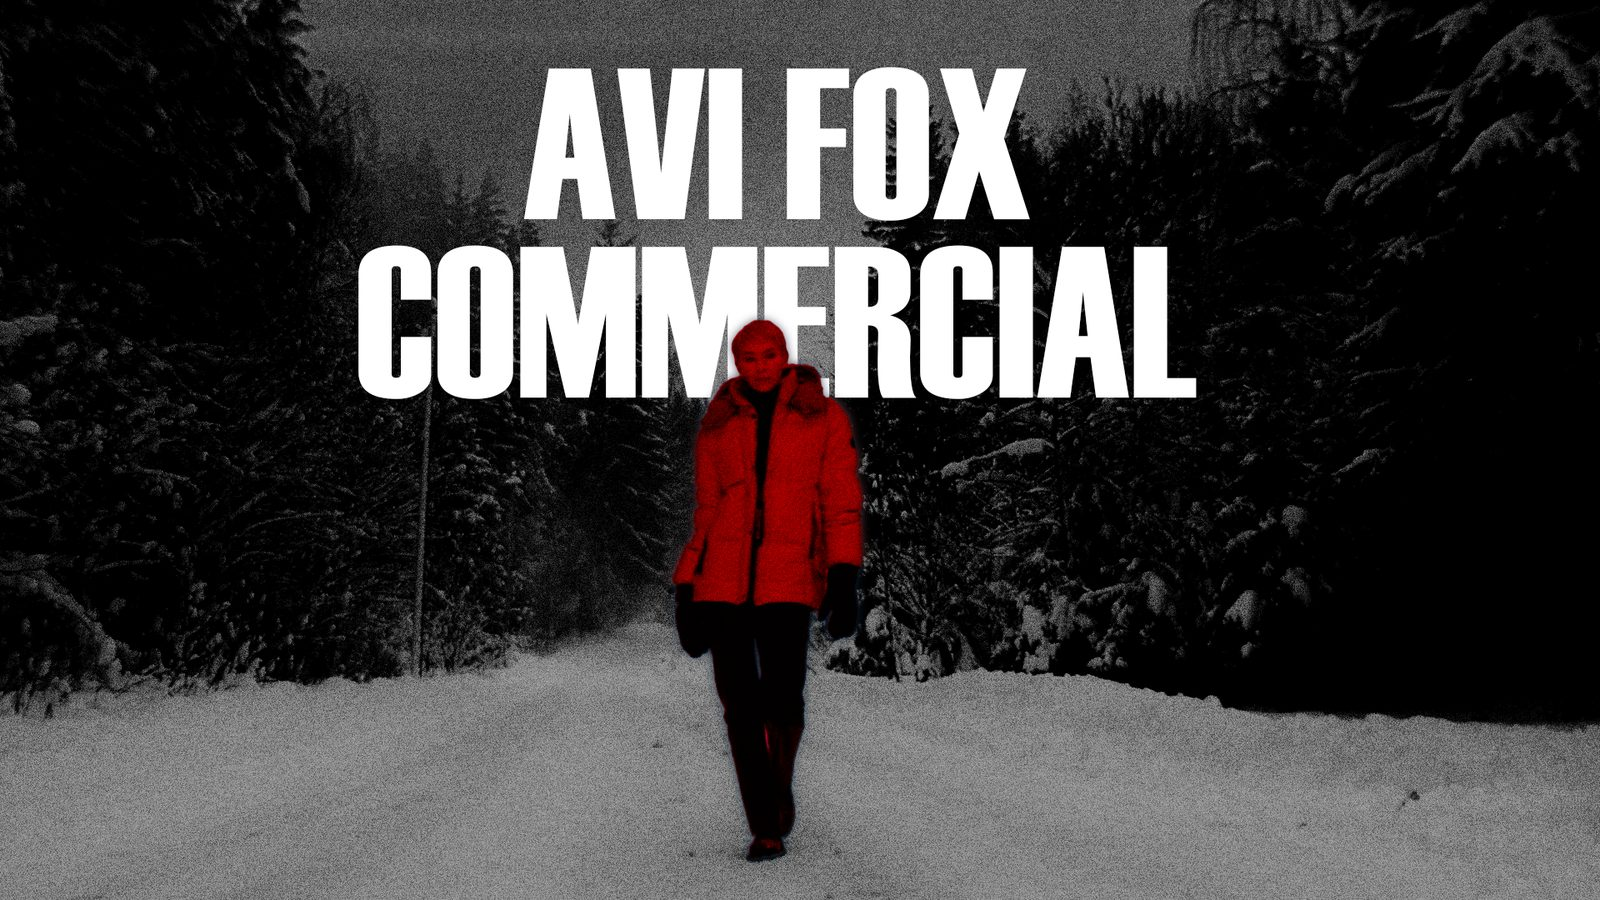
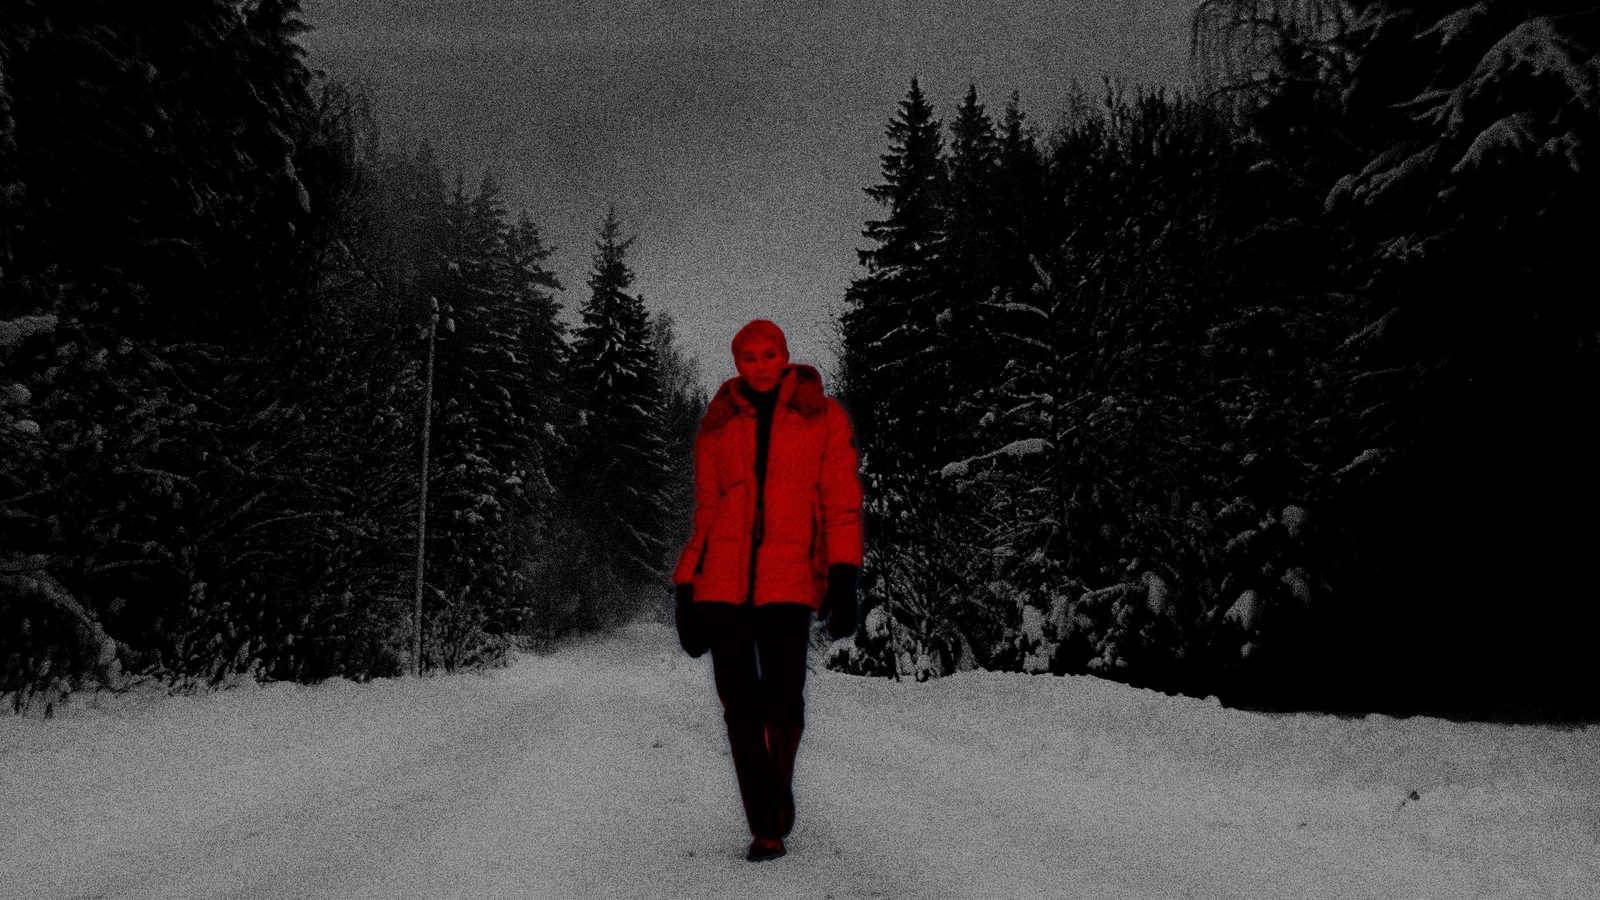
Обложки Т-Банк, Gorilla, AVI под надписями; Т-Банк первым, AVI третьим
Claude-Session: https://claude.ai/code/session_01Qo9VwUVFzJqu7E8YznFKai

Changed region(s): [[0.2188, 0.0622, 0.75, 0.4667]]

diff --git a/work/tbank-utopia/index.html b/work/tbank-utopia/index.html
@@ -33,13 +33,12 @@
 <p class="cat">01 · Реклама / имидж</p>
 <h1>Т-Банк X Utopia Show</h1>
 </section>
-<div class="wrap"><div class="player" data-src="https://kinescope.io/embed/f105fb5a-e9b6-4395-9607-12a16097616d?title=false&amp;dnt=1&amp;autoplay=1" data-title="Т-Банк X Utopia Show"><button class="poster red" type="button" aria-label="Смотреть: Т-Банк X Utopia Show"><b aria-hidden="true">Т-БАНК X
-UTOPIA SHOW</b><span class="play" aria-hidden="true"><svg viewBox="0 0 24 24"><path d="M8 5.5v13l11-6.5z"/></svg></span></button><noscript><iframe src="https://kinescope.io/embed/f105fb5a-e9b6-4395-9607-12a16097616d?title=false&amp;dnt=1" title="Т-Банк X Utopia Show" allow="autoplay; fullscreen; picture-in-picture; encrypted-media; gyroscope; accelerometer; clipboard-write; screen-wake-lock" allowfullscreen></iframe></noscript></div></div>
+<div class="wrap"><div class="player" data-src="https://kinescope.io/embed/f105fb5a-e9b6-4395-9607-12a16097616d?title=false&amp;dnt=1&amp;autoplay=1" data-title="Т-Банк X Utopia Show"><button class="poster" type="button" aria-label="Смотреть: Т-Банк X Utopia Show"><img src="../../assets/img/tbank.jpg?v=a7a5a8a1" alt="" decoding="async"><span class="play" aria-hidden="true"><svg viewBox="0 0 24 24"><path d="M8 5.5v13l11-6.5z"/></svg></span></button><noscript><iframe src="https://kinescope.io/embed/f105fb5a-e9b6-4395-9607-12a16097616d?title=false&amp;dnt=1" title="Т-Банк X Utopia Show" allow="autoplay; fullscreen; picture-in-picture; encrypted-media; gyroscope; accelerometer; clipboard-write; screen-wake-lock" allowfullscreen></iframe></noscript></div></div>
 <section class="wrap">
 <div class="facts"><div><span>Клиент</span><strong>Т-Банк</strong></div></div>
 <nav class="pn" aria-label="Соседние проекты">
-<a href="../../work/gorilla-energy/"><span>← Предыдущий</span><strong>Gorilla Energy</strong></a>
-<a class="next" href="../../work/pushkin-museum/"><span>Следующий →</span><strong>ГМИИ им. Пушкина — Excursions Promo</strong></a>
+<a href="../../work/nezhny-redaktor/"><span>← Предыдущий</span><strong>Нежный Редактор. Подкаст</strong></a>
+<a class="next" href="../../work/gorilla-energy/"><span>Следующий →</span><strong>Gorilla Energy</strong></a>
 </nav>
 </section>
 </main>

diff --git a/work/gorilla-energy/index.html b/work/gorilla-energy/index.html
@@ -33,12 +33,12 @@
 <p class="cat">01 · Реклама / имидж</p>
 <h1>Gorilla Energy</h1>
 </section>
-<div class="wrap"><div class="player" data-src="https://kinescope.io/embed/933325d1-2197-434f-8422-750ce5ca9934?title=false&amp;dnt=1&amp;autoplay=1" data-title="Gorilla Energy"><button class="poster" type="button" aria-label="Смотреть: Gorilla Energy"><img src="../../assets/img/gorilla.jpg" alt="" decoding="async"><span class="play" aria-hidden="true"><svg viewBox="0 0 24 24"><path d="M8 5.5v13l11-6.5z"/></svg></span></button><noscript><iframe src="https://kinescope.io/embed/933325d1-2197-434f-8422-750ce5ca9934?title=false&amp;dnt=1" title="Gorilla Energy" allow="autoplay; fullscreen; picture-in-picture; encrypted-media; gyroscope; accelerometer; clipboard-write; screen-wake-lock" allowfullscreen></iframe></noscript></div></div>
+<div class="wrap"><div class="player" data-src="https://kinescope.io/embed/933325d1-2197-434f-8422-750ce5ca9934?title=false&amp;dnt=1&amp;autoplay=1" data-title="Gorilla Energy"><button class="poster" type="button" aria-label="Смотреть: Gorilla Energy"><img src="../../assets/img/gorilla.jpg?v=bd6098e1" alt="" decoding="async"><span class="play" aria-hidden="true"><svg viewBox="0 0 24 24"><path d="M8 5.5v13l11-6.5z"/></svg></span></button><noscript><iframe src="https://kinescope.io/embed/933325d1-2197-434f-8422-750ce5ca9934?title=false&amp;dnt=1" title="Gorilla Energy" allow="autoplay; fullscreen; picture-in-picture; encrypted-media; gyroscope; accelerometer; clipboard-write; screen-wake-lock" allowfullscreen></iframe></noscript></div></div>
 <section class="wrap">
 <div class="facts"><div><span>Клиент</span><strong>Gorilla Energy</strong></div></div>
 <nav class="pn" aria-label="Соседние проекты">
-<a href="../../work/avi/"><span>← Предыдущий</span><strong>Big Brands: AVI Commercial</strong></a>
-<a class="next" href="../../work/tbank-utopia/"><span>Следующий →</span><strong>Т-Банк X Utopia Show</strong></a>
+<a href="../../work/tbank-utopia/"><span>← Предыдущий</span><strong>Т-Банк X Utopia Show</strong></a>
+<a class="next" href="../../work/avi/"><span>Следующий →</span><strong>Big Brands: AVI Commercial</strong></a>
 </nav>
 </section>
 </main>

diff --git a/work/avi/index.html b/work/avi/index.html
@@ -33,12 +33,12 @@
 <p class="cat">01 · Реклама / имидж</p>
 <h1>Big Brands: AVI Commercial</h1>
 </section>
-<div class="wrap"><div class="player" data-src="https://player.vimeo.com/video/722671807?dnt=1&amp;autoplay=1" data-title="Big Brands: AVI Commercial"><button class="poster" type="button" aria-label="Смотреть: Big Brands: AVI Commercial"><img src="../../assets/img/avi.jpg" alt="" decoding="async"><span class="play" aria-hidden="true"><svg viewBox="0 0 24 24"><path d="M8 5.5v13l11-6.5z"/></svg></span></button><noscript><iframe src="https://player.vimeo.com/video/722671807?dnt=1" title="Big Brands: AVI Commercial" allow="autoplay; fullscreen; picture-in-picture; encrypted-media; gyroscope; accelerometer; clipboard-write; screen-wake-lock" allowfullscreen></iframe></noscript></div></div>
+<div class="wrap"><div class="player" data-src="https://player.vimeo.com/video/722671807?dnt=1&amp;autoplay=1" data-title="Big Brands: AVI Commercial"><button class="poster" type="button" aria-label="Смотреть: Big Brands: AVI Commercial"><img src="../../assets/img/avi.jpg?v=89ddf8d1" alt="" decoding="async"><span class="play" aria-hidden="true"><svg viewBox="0 0 24 24"><path d="M8 5.5v13l11-6.5z"/></svg></span></button><noscript><iframe src="https://player.vimeo.com/video/722671807?dnt=1" title="Big Brands: AVI Commercial" allow="autoplay; fullscreen; picture-in-picture; encrypted-media; gyroscope; accelerometer; clipboard-write; screen-wake-lock" allowfullscreen></iframe></noscript></div></div>
 <section class="wrap">
 <div class="facts"><div><span>Клиент</span><strong>Big Brands</strong></div></div>
 <nav class="pn" aria-label="Соседние проекты">
-<a href="../../work/nezhny-redaktor/"><span>← Предыдущий</span><strong>Нежный Редактор. Подкаст</strong></a>
-<a class="next" href="../../work/gorilla-energy/"><span>Следующий →</span><strong>Gorilla Energy</strong></a>
+<a href="../../work/gorilla-energy/"><span>← Предыдущий</span><strong>Gorilla Energy</strong></a>
+<a class="next" href="../../work/pushkin-museum/"><span>Следующий →</span><strong>ГМИИ им. Пушкина — Excursions Promo</strong></a>
 </nav>
 </section>
 </main>

diff --git a/index.html b/index.html
@@ -40,20 +40,22 @@
 <section id="ads" class="wrap sec">
 <div class="sec-head"><span class="num" aria-hidden="true">01</span><h2>Реклама / имидж</h2></div>
 <div class="grid">
-<a class="card" href="work/avi/">
-<img src="assets/img/avi.jpg" alt="" loading="lazy" decoding="async">
-<span class="meta" aria-hidden="true"><span>Big Brands · AVI</span><span>▶</span></span><span class="sr">Big Brands: AVI Commercial</span>
-<span class="line" aria-hidden="true"></span>
-</a>
-<a class="card" href="work/gorilla-energy/">
-<img src="assets/img/gorilla.jpg" alt="" loading="lazy" decoding="async">
-<span class="meta" aria-hidden="true"><span>Gorilla Energy</span><span>▶</span></span><span class="sr">Gorilla Energy</span>
-<span class="line" aria-hidden="true"></span>
-</a>
-<a class="card red" href="work/tbank-utopia/">
-<span class="t" aria-hidden="true">Т-БАНК X
+<a class="card has-cover" href="work/tbank-utopia/">
+<img src="assets/img/tbank.jpg?v=a7a5a8a1" alt="" loading="lazy" decoding="async"><span class="shade" aria-hidden="true"></span><span class="t" aria-hidden="true">Т-БАНК X
 UTOPIA SHOW</span>
 <span class="sr">Т-Банк X Utopia Show</span>
+<span class="line" aria-hidden="true"></span>
+</a>
+<a class="card has-cover" href="work/gorilla-energy/">
+<img src="assets/img/gorilla.jpg?v=bd6098e1" alt="" loading="lazy" decoding="async"><span class="shade" aria-hidden="true"></span><span class="t" aria-hidden="true">GORILLA
+ENERGY</span>
+<span class="sr">Gorilla Energy</span>
+<span class="line" aria-hidden="true"></span>
+</a>
+<a class="card has-cover" href="work/avi/">
+<img src="assets/img/avi.jpg?v=89ddf8d1" alt="" loading="lazy" decoding="async"><span class="shade" aria-hidden="true"></span><span class="t" aria-hidden="true">AVI
+COMMERCIAL</span>
+<span class="sr">Big Brands: AVI Commercial</span>
 <span class="line" aria-hidden="true"></span>
 </a>
 <a class="card" href="work/pushkin-museum/">

diff --git a/assets/style.css b/assets/style.css
@@ -80,6 +80,9 @@ img{display:block;max-width:100%}
 .card .t.long{font-size:clamp(26px,3.4vw,48px)}
 .card .meta{position:absolute;left:0;right:0;bottom:0;display:flex;justify-content:space-between;align-items:flex-end;gap:12px;padding:18px 20px;
   font-size:13px;letter-spacing:.14em;text-transform:uppercase;color:var(--soft);background:linear-gradient(transparent,rgba(6,7,9,.9))}
+.card .shade{position:absolute;inset:0;background:rgba(6,7,9,.5);transition:background .5s}
+.card.has-cover .t{text-shadow:0 2px 24px rgba(0,0,0,.45)}
+.card:hover .shade,.card:focus-visible .shade{background:rgba(6,7,9,.12)}
 .card .line{position:absolute;left:0;bottom:0;height:4px;width:100%;background:var(--red);transform:scaleX(0);transform-origin:left;transition:transform .4s cubic-bezier(.7,0,.2,1)}
 .card:hover,.card:focus-visible{color:var(--white)}
 .card:hover img,.card:focus-visible img{transform:scale(1.04)}

diff --git a/work/pushkin-museum/index.html b/work/pushkin-museum/index.html
@@ -38,7 +38,7 @@ EXCURSIONS PROMO</b><span class="play" aria-hidden="true"><svg viewBox="0 0 24 2
 <section class="wrap">
 <div class="facts"><div><span>Клиент</span><strong>The Pushkin State Museum of Fine Arts</strong></div></div>
 <nav class="pn" aria-label="Соседние проекты">
-<a href="../../work/tbank-utopia/"><span>← Предыдущий</span><strong>Т-Банк X Utopia Show</strong></a>
+<a href="../../work/avi/"><span>← Предыдущий</span><strong>Big Brands: AVI Commercial</strong></a>
 <a class="next" href="../../work/promo-360/"><span>Следующий →</span><strong>Промо канала 360</strong></a>
 </nav>
 </section>

diff --git a/work/nezhny-redaktor/index.html b/work/nezhny-redaktor/index.html
@@ -39,7 +39,7 @@
 
 <nav class="pn" aria-label="Соседние проекты">
 <a href="../../work/ram-king-of-monkeys/"><span>← Предыдущий</span><strong>RAM — Король Обезьян</strong></a>
-<a class="next" href="../../work/avi/"><span>Следующий →</span><strong>Big Brands: AVI Commercial</strong></a>
+<a class="next" href="../../work/tbank-utopia/"><span>Следующий →</span><strong>Т-Банк X Utopia Show</strong></a>
 </nav>
 </section>
 </main>

diff --git a/build.py b/build.py
@@ -118,17 +118,24 @@ def footer():
 </footer>"""
 
 
+def asset(path):
+    """Путь к картинке с меткой версии, чтобы после замены файла браузер не показывал старый из кэша."""
+    import hashlib
+    try:
+        h = hashlib.md5(open(os.path.join(ROOT, path), "rb").read()).hexdigest()[:8]
+        return f"{path}?v={h}"
+    except OSError:
+        return path
+
+
 def card(p, base):
     longest = max(len(x) for x in p["card"].split("\n"))
-    tone = "" if p.get("cover") else (" red" if p.get("tone") == "red" else "")
-    inner = (f'<img src="{base}{e(p["cover"])}" alt="" loading="lazy" decoding="async">'
-             if p.get("cover") else
-             f'<span class="t{" long" if longest > 14 else ""}" aria-hidden="true">{e(p["card"])}</span>')
-    meta = (f'<span class="meta" aria-hidden="true"><span>{e(p.get("label"))}</span><span>▶</span></span>'
-            if p.get("cover") else "")
-    return f"""<a class="card{tone}" href="{base}work/{p['slug']}/">
-{inner}
-{meta}<span class="sr">{e(p['title'])}</span>
+    tone = " red" if (not p.get("cover") and p.get("tone") == "red") else ""
+    bg = (f'<img src="{base}{e(asset(p["cover"]))}" alt="" loading="lazy" decoding="async"><span class="shade" aria-hidden="true"></span>'
+          if p.get("cover") else "")
+    return f"""<a class="card{tone}{' has-cover' if p.get('cover') else ''}" href="{base}work/{p['slug']}/">
+{bg}<span class="t{" long" if longest > 14 else ""}" aria-hidden="true">{e(p["card"])}</span>
+<span class="sr">{e(p['title'])}</span>
 <span class="line" aria-hidden="true"></span>
 </a>"""
 
@@ -181,7 +188,7 @@ def build_project(i, p):
         player_attrs = f' data-src="{e(play_src)}" data-title="{e(p["title"])}"'
         poster = p.get("poster") or p.get("cover")
         if poster:
-            inner = f'<img src="{base}{e(poster)}" alt="" decoding="async">'
+            inner = f'<img src="{base}{e(asset(poster))}" alt="" decoding="async">'
             tone = ""
         else:
             inner = f'<b aria-hidden="true">{e(p["card"])}</b>'
